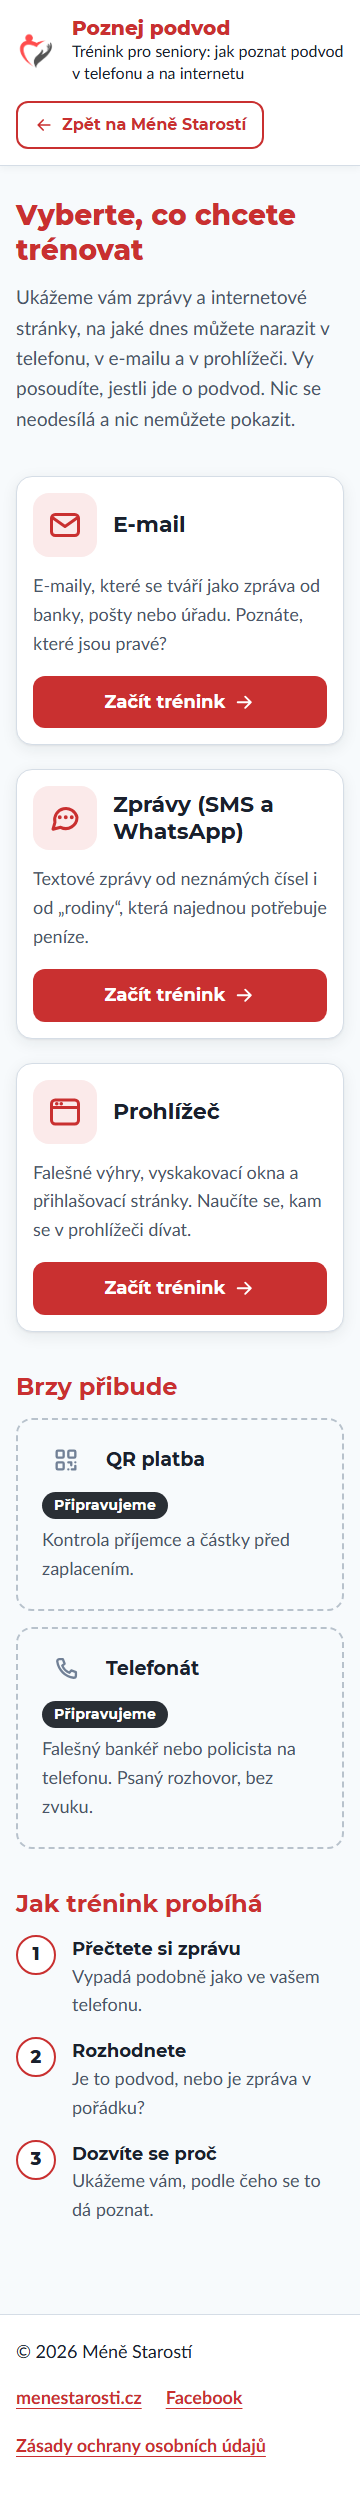
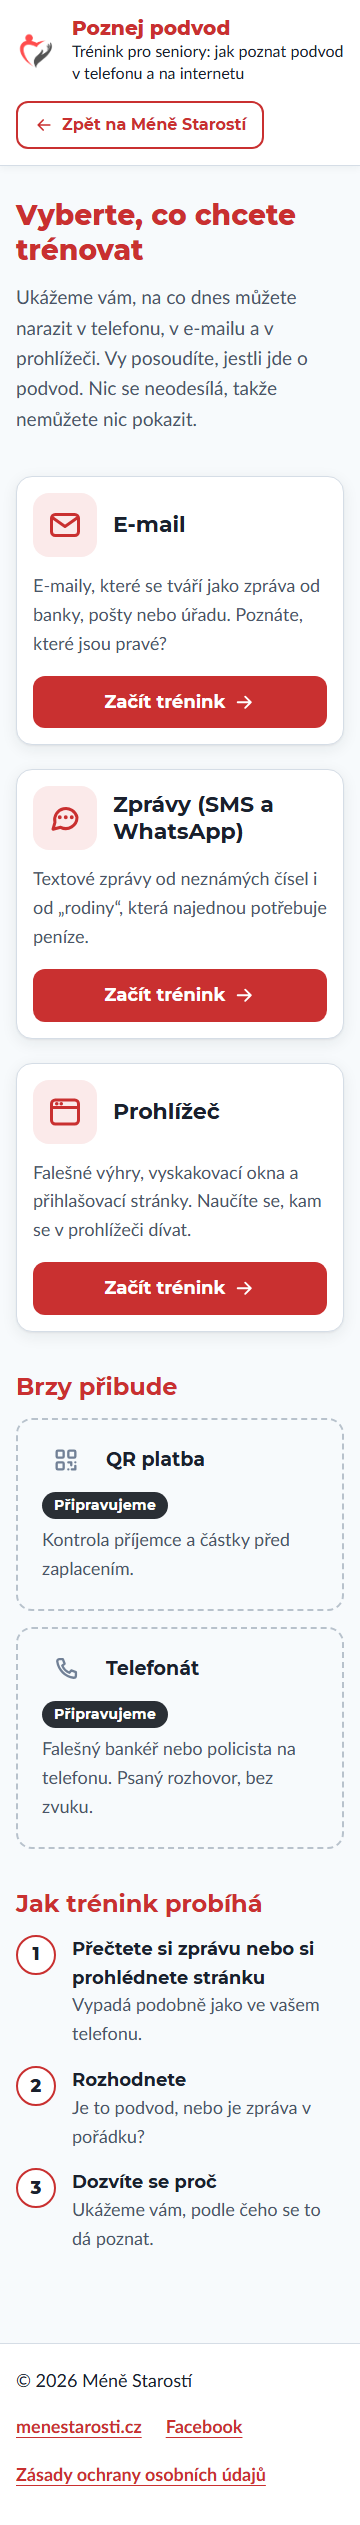
Opravy z kontroly na telefonu: kratší rada v nápovědě Prohlížeče, nový úvod hlavní stránky a krok o stránce, test, snímky

diff --git a/src/screens/home.js b/src/screens/home.js
@@ -74,8 +74,8 @@ export function renderHome(container, { deletedMessage = '' } = {}) {
       <div class="home__intro">
         <h1 class="section-title" tabindex="-1">Vyberte, co chcete trénovat</h1>
         <p class="home__lead">
-          Ukážeme vám zprávy a internetové stránky, na jaké dnes můžete narazit v telefonu, v e-mailu a v prohlížeči. Vy posoudíte, jestli jde o podvod.
-          Nic se neodesílá a nic nemůžete pokazit.
+          Ukážeme vám, na co dnes můžete narazit v telefonu, v e-mailu a v prohlížeči. Vy posoudíte, jestli jde o podvod.
+          Nic se neodesílá, takže nemůžete nic pokazit.
         </p>
       </div>
 
@@ -95,7 +95,7 @@ export function renderHome(container, { deletedMessage = '' } = {}) {
         <h2 id="home-how" class="section-title">Jak trénink probíhá</h2>
         <ol class="steps">
           <li class="steps__item">
-            <p><span class="steps__title">Přečtete si zprávu</span>Vypadá podobně jako ve vašem telefonu.</p>
+            <p><span class="steps__title">Přečtete si zprávu nebo si prohlédnete stránku</span>Vypadá podobně jako ve vašem telefonu.</p>
           </li>
           <li class="steps__item">
             <p><span class="steps__title">Rozhodnete</span>Je to podvod, nebo je zpráva v pořádku?</p>

diff --git a/src/texts.js b/src/texts.js
@@ -92,7 +92,7 @@ export const HINTS = {
       ],
       [
         'Stránka nebo okno, které straší nebo slibuje výhru.',
-        '„Telefon je napadený“, „Vyhráli jste“. Stránka nepozná, co máte v telefonu. Výhra v soutěži, do které jste se nepřihlásili, je důvod zpozornět. Nevolejte, nic neinstalujte a stránku zavřete. Obyčejnou reklamu zavřete křížkem v jejím rohu, někdy se objeví až po několika vteřinách. Okno, které straší nebo chce, abyste volali, křížkem nezavírejte. Zavřete celou stránku.',
+        '„Telefon je napadený“, „Vyhráli jste“. Stránka nepozná, co máte v telefonu. Výhra v soutěži, do které jste se nepřihlásili, je důvod zpozornět. Nevolejte a nic neinstalujte. Obyčejnou reklamu zavřete křížkem v jejím rohu, někdy se objeví až po několika vteřinách. Okno, které straší nebo chce, abyste volali, křížkem nezavírejte. Zavřete celou stránku.',
       ],
       [
         'Údaje, které stránka nepotřebuje.',

diff --git a/tests/home.spec.js b/tests/home.spec.js
@@ -21,6 +21,18 @@ test.describe('home page', () => {
     ).toBeVisible();
   });
 
+  // Wording approved by Tomáš on 2. 10. 2026 (all three sections, pages as well as messages)
+  test('the lead and "Jak trénink probíhá" speak about messages and pages', async ({ page }) => {
+    await expect(page.locator('.home__lead')).toHaveText(
+      'Ukážeme vám, na co dnes můžete narazit v telefonu, v e-mailu a v prohlížeči. Vy posoudíte, jestli jde o podvod. Nic se neodesílá, takže nemůžete nic pokazit.',
+    );
+    await expect(page.locator('.steps__title')).toHaveText([
+      'Přečtete si zprávu nebo si prohlédnete stránku',
+      'Rozhodnete',
+      'Dozvíte se proč',
+    ]);
+  });
+
   test('shows active section tiles as links', async ({ page }) => {
     await expect(page.getByRole('link', { name: /^E-mail/ })).toHaveAttribute('href', '#/email');
     await expect(page.getByRole('link', { name: /^Zprávy \(SMS a WhatsApp\)/ })).toHaveAttribute(

diff --git a/docs/plany/plan-prohlizec.md b/docs/plany/plan-prohlizec.md
@@ -70,7 +70,7 @@ Postup spojení, podmínky „hotovo“, vrácení spojení (`git revert -m 1 4b
 12. **Zpřístupnění sekce** · hotovo. Spojení do `main` (`4b25c70`) a push na Tomášův pokyn.
 13. **Ověření na živé stránce** · hotovo.
 14. **Úprava úvodu a scénáře `prohlizec-03`** · čeká na tebe · hotovo 2. 10. 2026. Úvod jako malé okno prohlížeče s čísly 1–3 v barevných čárkovaných rámečcích a řádkem „Bez varování“, „Lipová banka“ v `prohlizec-03`, zalamování adres jen celých. Tomáš schválil, spojeno do `main` (`65e5b9e`), nasazeno a ověřeno na živém webu.
-15. **Opravy z kontroly na telefonu** · čeká na tebe. Texty schválené Tomášem 2. 10. 2026: úvod Prohlížeče (nové znění pod „Bez varování“, v obrázku řádku bez varování malý neutrální znak se dvěma posuvníky a věta o něm; ve hře se znak nekreslí), nápověda Prohlížeče (bod „Adresní řádek“ o zkrácené adrese, bod o strašícím okně o křížku), ve vyhodnocení pokročilé úrovně ve všech třech sekcích „Získali jste…“, „Za rozhodnutí“ a „Za označená místa“ každé na samostatném řádku, nová první věta úvodu hlavní stránky. Snímky na 360 px: `docs/plany/snimky/opravy-telefon-*.png`. Větev `opravy-telefon`, spojení až na „spoj“.
+15. **Opravy z kontroly na telefonu** · čeká na tebe. Texty schválené Tomášem 2. 10. 2026: úvod Prohlížeče (nové znění pod „Bez varování“, v obrázku řádku bez varování malý neutrální znak se dvěma posuvníky a věta o něm; ve hře se znak nekreslí), nápověda Prohlížeče (bod „Adresní řádek“ o zkrácené adrese, bod o strašícím okně o křížku), ve vyhodnocení pokročilé úrovně ve všech třech sekcích „Získali jste…“, „Za rozhodnutí“ a „Za označená místa“ každé na samostatném řádku, nový úvod hlavní stránky a krok „Přečtete si zprávu nebo si prohlédnete stránku“ (druhá dávka 2. 10. 2026; okno v `prohlizec-02` křížek nedostane). Snímky na 360 px: `docs/plany/snimky/opravy-telefon-*.png`. Větev `opravy-telefon`, spojení až na „spoj“.
 16. **Kontrola na telefonu** · čeká na tebe. Tomáš projde Prohlížeč na živém webu, nahrazuje i fázi 11.
 
 Proti původnímu plánu: fáze 5 a 7 proběhly najednou, fáze 11 je vynechaná. Fáze 14 přibyla 1. 10. 2026, fáze 15 2. 10. 2026 (Tomáš), kontrola na telefonu zůstává poslední.
